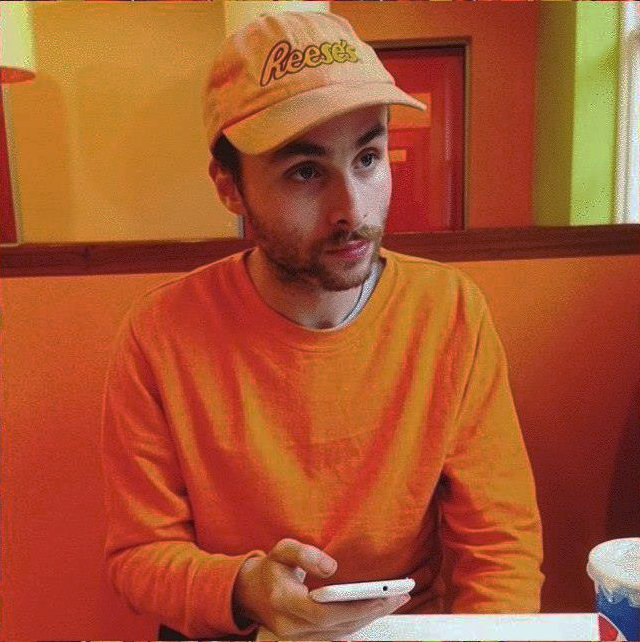
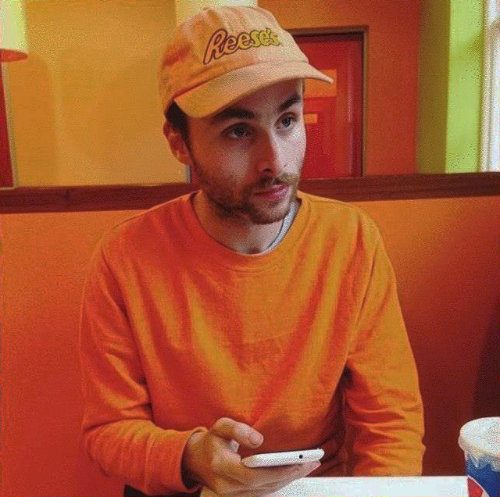
Add Contact page
Including portrait image and bio

diff --git a/css/style.css b/css/style.css
@@ -499,6 +499,36 @@ p {
 @media screen and (min-width: 800px) {
   .cell {
     width: calc(33.3333% - 1rem); } }
+.contact {
+  display: block;
+  margin-top: 3rem;
+  margin-bottom: 3rem; }
+
+.bio a {
+  color: #fff;
+  background-color: #000;
+  text-decoration: none;
+  padding: 1px 4px;
+  border-radius: 2px; }
+
+/***********MEDIA QUERIES*************/
+@media screen and (min-width: 900px) {
+  .contact {
+    display: inline; }
+    .contact:after {
+      content: "";
+      display: table;
+      clear: both; }
+
+  .portrait img {
+    float: left;
+    width: 50%;
+    padding: 0 1rem; }
+
+  .bio {
+    float: right;
+    width: 50%;
+    padding: 0 1rem; } }
 .site-footer {
   display: block;
   text-align: center;

diff --git a/contact.html b/contact.html
@@ -49,8 +49,16 @@
 
     <div class="wrapper">
 
-      <div class="portrait">
-        <img src="img/JoelOrange.jpg"
+      <div class="contact">
+        <div class="portrait">
+          <img src="img/JoelOrange.jpg">
+        </div>
+
+        <div class="bio">
+          <p>Hi, I'm Joel, I'm a filmmaker based in Folkestone.</p>
+          <p>If you like my work and you want to hire me, drop me an email.<br>I'd love to hear about your project.</p>
+          <a href="mailto:mail@joelsnowman.com">mail@joelsnowman.com</a>
+        </div>
       </div>
 
     </div>

diff --git a/scss/_contact.scss b/scss/_contact.scss
@@ -1,0 +1,41 @@
+
+.contact {
+  display: block;
+  margin-top: 3rem;
+  margin-bottom: 3rem;
+}
+
+.bio a {
+    color: #fff;
+    background-color: #000;
+    text-decoration: none;
+    padding: 1px 4px;
+    border-radius: 2px;
+}
+
+
+
+/***********MEDIA QUERIES*************/
+
+@media screen and (min-width: 900px) {
+
+  .contact {
+    display: inline;
+
+    @include clearfix;
+  }
+
+  .portrait img {
+    float: left;
+    width: 50%;
+    padding: 0 1rem;
+  }
+
+  .bio {
+    float: right;
+    width: 50%;
+    padding: 0 1rem;
+  }
+
+
+}

diff --git a/scss/_global.scss b/scss/_global.scss
@@ -2,9 +2,12 @@
   box-sizing: border-box;
 }
 
+
+
 body {
   background-color: #fff;
 }
+
 
 /* center elements on page */
 .wrapper {

diff --git a/scss/style.scss b/scss/style.scss
@@ -11,4 +11,5 @@
 @import 'main-nav';
 @import 'video';
 @import 'gallery';
+@import 'contact';
 @import 'site-footer';
